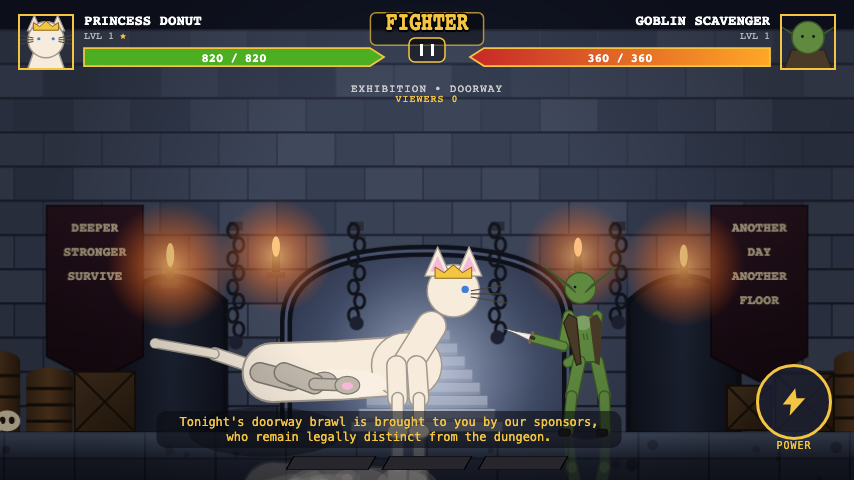
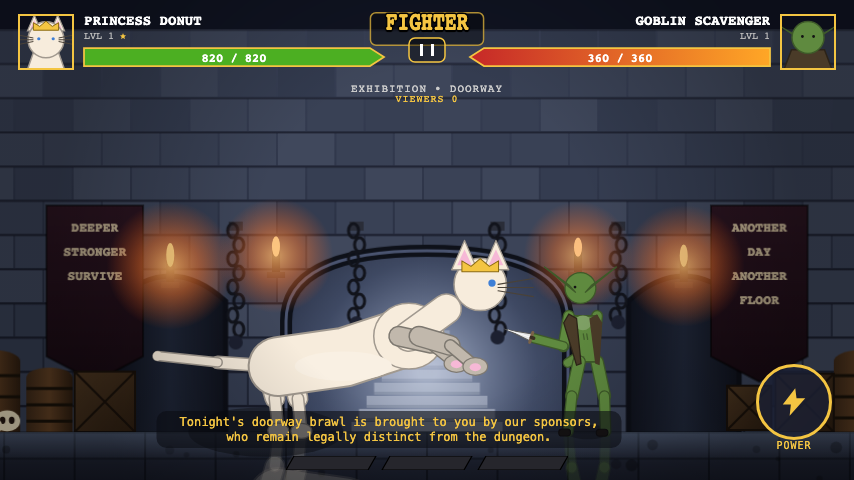
art: quad kick is a rearing front-paw slam at the foe
Fix round 2 (controller ruling): the hind-leg buck (rounds 0-1) swung
away from the foe regardless of visibility fixes -- a hind leg can't
reach something standing in front of a quadruped without an impossible
whole-body spin. Replaced POSES_QUAD.medium with a rearing double-
front-paw slam: the cat rocks back onto its hind legs (chest rises
~40deg), then both front paws drive forward and down toward the foe at
roughly chest height, head thrust forward. drawQuad's fix-round-1
hind-leg draw-order hack is reverted (unneeded -- front legs are
already drawn last) and its paw-pad/tint treatment retargeted at the
front paws. The frozen quad pose test now checks fl2's forward travel.

Changed region(s): [[0.1522, 0.5, 0.6089, 1.0]]

diff --git a/index.html b/index.html
@@ -2453,40 +2453,44 @@ POSES_QUAD.light2=pawSwipe('fr',{peakU:80,peakOffX:14});
 POSES_QUAD.light3=pawSwipe('fl',{peakU:86,peakOffX:17,spinePeak:9});
 POSES_QUAD.light4=pawSwipe('fr',{peakU:92,peakOffX:20,spinePeak:11});
 POSES_QUAD.light5=pawSwipe('fl',{peakU:104,peakL:-20,peakOffX:28,spinePeak:16,startL:18});
-// Medium (Task 6.5 / Phase 6 ruling 4: KICK is a leg strike in every rig): a hind-leg buck, not the
-// old full-body pounce. Front paws stay planted near their own idle position throughout (they're the
-// "lead hand" side of this pose contract, see the pose test below) while both HIND legs do the work:
-// anticipation (t:0) coils them up and well back — as if the hips were winding up to spin toward the
-// foe, though this 2D side-view FK has no real whole-body yaw to animate, so the "spin" is entirely
-// sold by the big swing (roughly 110-130deg of blU/brU travel from this coiled-back anticipation to
-// the strike keyframe below) rather than an actual hip rotation — then strike (t:.43, chosen so it
-// lands inside the move's own active window exactly like the human/big rigs above — see POSES.medium's
-// own comment for the frame math, identical here since MOVES.medium is shared by every rig) snaps both
-// hind paws forward at the foe (not backward — a literal "buck" kicks away from an opponent standing
-// behind, but this move has to reach the foe standing in FRONT); recovery (t:1) returns to an
-// idle-like stance facing forward. See the 'kick: medium's active-phase pose...' test (90_tests.js)
-// for the frozen "hind paw >=60px forward of idle, front paw within 20px of idle" contract this
-// satisfies for all three rig kinds — donut/mother_rat's reach budget (EDGE_PAD, see their own LOOKS
-// comments) is already close to its ceiling from OTHER poses (light5/s2/s3), so this kick was tuned to
-// land well inside that existing budget rather than becoming the new worst case.
-// Fix round 1 (controller review): the first pass tuned blU/blL down (76/14 -> 60/0) purely to keep
-// the strike paw's own y from disappearing under the body capsule's painted footprint, since drawQuad
-// used to draw the hind legs BEFORE that capsule (i.e. behind/under it) regardless of pose — the kick
-// passed the numeric pose test with room to spare but was nearly invisible in a real screenshot.
-// drawQuad now draws the striking hind legs AFTER the capsule during this pose specifically (see its
-// own comment), which removes the occlusion problem entirely — so the angles are back to the original,
-// more dramatic 76/14 (blU/blL) for a clearer, further-reaching kick silhouette now that nothing hides
-// it. The strike keyframe's off.y:6 (new) is the "slight hip drop" the review asked for: it lowers the
-// whole rear during the kick, which costs nothing in reach (Rig.extent's reach formula excludes off.y
-// entirely, see its own comment) and keeps the front paws planted almost exactly at their idle y
-// (verified: -1.0 vs idle's own -3.6 for donut) despite the hip itself sitting lower.
+// Medium (Task 6.5 / Phase 6 ruling 4, quad carve-out — Fix round 2, controller ruling): a rearing
+// double-front-paw slam, not the hind-leg buck this pose started as. Round 1's hind-leg buck (kept
+// only in this comment's own git history, not below) numerically satisfied "leg travels forward
+// >=60px" but the striking leg swung AWAY from the foe (behind the body, toward the tail side) once
+// actually viewed in a screenshot — a hind leg attached at the REAR of a quadruped simply cannot kick
+// something standing in FRONT without an impossible whole-body spin, which the frozen ruling's own
+// "KICK is a leg strike in every rig" language didn't anticipate for a quadruped's proportions. The
+// controller ruling carves the quad rig out of "leg" specifically and into "front paws, with visible
+// claws/pads" instead — still reads as a strike that isn't the arm-equivalent (front paws are what
+// pawSwipe()/light1-5 already use, but this move's rearing wind-up and both-paws-at-once strike read
+// nothing like a single light swipe's small flick, matching "a leg strike, not an arm move" in spirit
+// even though the striking limb is anatomically a foreleg here).
+// anticipation (t:0): the cat rocks BACK onto its hind legs — hips drop (off.y:10, cheap in reach, see
+// Rig.extent's own comment on off.y) while the front half rears up (spine+chest pitch to a combined
+// ~40deg, the literal "chest rises ~40deg" ask — solveQuad's chain accumulates pitch, chestA=spineA+
+// a('chest'), so spine:20+chest:20 gets there) — front paws lift off the ground, hind legs bend to
+// bear the shifted weight. strike (t:.43, chosen so it lands inside the move's own active window
+// exactly like the human/big rigs above — see POSES.medium's own comment for the frame math, identical
+// here since MOVES.medium is shared by every rig) drives both front paws forward and down from that
+// reared height toward the foe — they land partway down (fl2.y roughly -70 to -75 for donut, well
+// above true floor y=0, reading as "chest height" rather than a full ground slam) while the chest/
+// spine ease back off their anticipation peak (a slam descending into the strike, not still rising)
+// and the neck pitches up (neck:36, "head thrust forward"). recovery (t:1) drops back to an ordinary
+// all-fours idle-like stance. See the 'kick: medium's active-phase pose...' test (90_tests.js) for the
+// frozen ">=60px forward of idle, front paw driven" contract this satisfies for the quad rig (checked
+// via fl2, the same joint the pre-existing 'quad light1...' test already uses as its representative
+// paw) — donut/mother_rat's reach budget (EDGE_PAD, see their own LOOKS comments) is already close to
+// its ceiling from OTHER poses (light5/s2/s3), so this slam was tuned (flU/flL, off.x) to land inside
+// that existing budget with real margin (reach 253.7/250.8 vs the 260 ceiling) rather than becoming
+// the new worst case; `top` is unaffected (210.0/234.5, matching every pre-existing pose's own ceiling)
+// — the rear-up's own peak height never exceeds each look's already-tallest pose (s3/knockdown/win).
 POSES_QUAD.medium=[
-  {t:0, ang:{spine:D(2),chest:D(2),neck:D(30),tail1:D(34),tail2:D(-20),
-             flU:D(-4),flL:D(5),frU:D(6),frL:D(-6),
-             blU:D(-66),blL:D(50),brU:D(-58),brL:D(44)},off:{x:-4,y:2}},
-  {t:.43,ang:{spine:D(2),chest:D(2),neck:D(28),tail1:D(18),tail2:D(-8),
-             flU:D(2),flL:D(-2),frU:D(4),frL:D(-4),
-             blU:D(76),blL:D(14),brU:D(70),brL:D(18)},off:{x:6,y:6}},
+  {t:0, ang:{spine:D(20),chest:D(20),neck:D(20),tail1:D(10),tail2:D(-4),
+             flU:D(-40),flL:D(30),frU:D(-36),frL:D(28),
+             blU:D(20),blL:D(-14),brU:D(18),brL:D(-12)},off:{x:-6,y:10}},
+  {t:.43,ang:{spine:D(8),chest:D(10),neck:D(36),tail1:D(4),tail2:D(2),
+             flU:D(78),flL:D(-26),frU:D(74),frL:D(-24),
+             blU:D(16),blL:D(-10),brU:D(14),brL:D(-8)},off:{x:12,y:0}},
   {t:1, ang:{spine:D(2),chest:D(2),neck:D(32),tail1:D(10),tail2:D(-4),
              flU:D(-2),flL:D(4),frU:D(2),frL:D(-2),
              blU:D(-4),blL:D(5),brU:D(6),brL:D(-6)},off:{x:0,y:0}}];
@@ -3434,37 +3438,33 @@ const Rig={
     const scale=F.def.scale||1,face=F.face;
     const{key,t01}=this.poseFor(F),j=this.solveQuad(look,key,t01,face);
     const skinDark=shade(look.skin,-.35);
-    // Fix round 1 (controller review, Task 6.5): the medium kick's hind legs used to be drawn in the
-    // same fixed spot as every other pose -- BEHIND the body capsule below, since that's simply the
-    // order this function always drew in -- so no pose data could ever make the kick clear the body's
-    // own paint; it read as invisible in a real screenshot despite passing the numeric pose test with
-    // room to spare. `kicking` gates a second, later draw of the hind legs (after the body/front legs,
-    // see below) specifically for this one pose, instead of reordering the whole function for every
-    // pose (which would put the hind legs in front of the body during idle/walk/light1/etc too, where
-    // nothing asked for that and it would read as a rendering regression, not a fix).
-    const kicking=key==='medium';
+    // Fix round 2 (controller review, Task 6.5): the medium kick is now a rearing double-front-paw
+    // slam (see POSES_QUAD.medium's own comment) — the striking limbs are the FRONT legs, which this
+    // function already draws last (in front of the body), so unlike fix round 1's now-reverted
+    // hind-leg-specific draw-order hack, no reordering is needed here at all; `slamming` only gates the
+    // front paws' own look (a darker tint + a visible pad, see paw() below), not layering.
+    const slamming=key==='medium';
     c.save();c.translate(F.x,FLOOR);c.scale(scale,scale);
     const limb=(p,q,w,col)=>{c.lineCap='round';
       c.lineWidth=w+3;c.strokeStyle=shade(col||look.skin,-.35);c.beginPath();c.moveTo(p.x,p.y);c.lineTo(q.x,q.y);c.stroke();
       c.lineWidth=w;c.strokeStyle=col||look.skin;c.beginPath();c.moveTo(p.x,p.y);c.lineTo(q.x,q.y);c.stroke()};
-    // pad (Fix round 1): an optional second arg draws a bigger, tinted "kick paw" -- a visible paw pad
-    // (a smaller lighter oval set into the fill, the same "shade a highlight into a flat fill" trick
+    // pad: an optional second/third arg draws a bigger, tinted "slam paw" -- a visible paw pad (a
+    // smaller lighter oval set into the fill, the same "shade a highlight into a flat fill" trick
     // drawBig's own scars/brow-ridge props already use) instead of the ordinary flat ellipse, so the
-    // striking paw itself reads as a deliberate foot, not just a leg-end. col overrides the fill/
-    // stroke entirely (the kicking limbs' own darker tint, see below); undefined keeps the ordinary look.
+    // striking paw itself reads as a deliberate foot with claws/pad, not just a leg-end. col overrides
+    // the fill/stroke entirely (the slamming front paws' own darker tint, see below); undefined keeps
+    // the ordinary look every non-kick pose still uses.
     const paw=(p,col,pad)=>{const r=look.legW*(pad?.68:.58);
       c.fillStyle=col||look.skin;c.strokeStyle=shade(col||look.skin,-.35);c.lineWidth=1.2;
       c.beginPath();c.ellipse(p.x,p.y,r,r*.72,0,0,Math.PI*2);c.fill();c.stroke();
       if(pad){c.fillStyle=look.earInner||shade(col||look.skin,.32);
         c.beginPath();c.ellipse(p.x,p.y+r*.06,r*.46,r*.32,0,0,Math.PI*2);c.fill()}};
-    // back legs first (behind the body), then the tail (base tucks under the hip), UNLESS this is the
-    // kick (see `kicking` above) -- then they're skipped here and drawn again, in front, after the
-    // body/front legs below. Upper legs noticeably thicker than lower (.55 taper, was .78 in round 1 —
-    // art review called the whole rig "wire-bodied" and this taper is part of giving it real limb
-    // volume, matching the human rig's own thigh/shin taper).
-    if(!kicking){
-      limb(j.blHip,j.bl1,look.legW);limb(j.bl1,j.bl2,look.legW*.55);paw(j.bl2);
-      limb(j.brHip,j.br1,look.legW);limb(j.br1,j.br2,look.legW*.55);paw(j.br2)}
+    // back legs first (behind the body), then the tail (base tucks under the hip). Upper legs
+    // noticeably thicker than lower (.55 taper, was .78 in round 1 — art review called the whole rig
+    // "wire-bodied" and this taper is part of giving it real limb volume, matching the human rig's
+    // own thigh/shin taper).
+    limb(j.blHip,j.bl1,look.legW);limb(j.bl1,j.bl2,look.legW*.55);paw(j.bl2);
+    limb(j.brHip,j.br1,look.legW);limb(j.br1,j.br2,look.legW*.55);paw(j.br2);
     limb(j.hip,j.tail1,look.legW*.6,look.tailTint);limb(j.tail1,j.tail2,look.legW*.42,look.tailTint);
     c.fillStyle=look.tailTint||look.skin;c.beginPath();c.arc(j.tail2.x,j.tail2.y,look.legW*.26,0,Math.PI*2);c.fill();
     // Filled body: art review (Fix round 1) called the original hip->chest stroke (width
@@ -3507,18 +3507,16 @@ const Rig={
           c.fill()}}}
     c.fillStyle=look.eye||'#141414';
     c.beginPath();c.arc(j.head.x+face*look.headR*.45,j.head.y-look.headR*.05,look.headR*.14,0,Math.PI*2);c.fill();
-    // front legs, drawn last of the limbs so they sit in front of the body
-    limb(j.flHip,j.fl1,look.legW);limb(j.fl1,j.fl2,look.legW*.55);paw(j.fl2);
-    limb(j.frHip,j.fr1,look.legW);limb(j.fr1,j.fr2,look.legW*.55);paw(j.fr2);
-    // Fix round 1 (controller review, Task 6.5): the kick's hind legs, drawn here instead of their
-    // usual spot above (see `kicking`'s own comment) so the body capsule and front legs can never hide
-    // them -- a shade darker than the body fill (kickCol) so the striking limb visually separates from
-    // the body even where it overlaps it, plus the bigger, pad-marked paw() variant, both per the
-    // review's "make the strike more legible" ask.
-    if(kicking){
-      const kickCol=shade(look.skin,-.22);
-      limb(j.blHip,j.bl1,look.legW,kickCol);limb(j.bl1,j.bl2,look.legW*.55,kickCol);paw(j.bl2,kickCol,true);
-      limb(j.brHip,j.br1,look.legW,kickCol);limb(j.br1,j.br2,look.legW*.55,kickCol);paw(j.br2,kickCol,true)}
+    // front legs, drawn last of the limbs so they sit in front of the body -- which is exactly why the
+    // medium slam (Fix round 2) needs no special draw-order handling at all, unlike fix round 1's now-
+    // reverted hind-leg version: the striking limbs are already the last (frontmost) thing drawn here.
+    // `slamming` only swaps in the tinted, pad-marked paw() variant for legibility ("claws/paw pads
+    // visible" per the review) -- a shade darker than the body fill so the striking paws separate from
+    // it even where they overlap it, matching Fix round 1's own paw-pad treatment, just correctly
+    // applied to the limb that's actually doing the striking this round.
+    const slamCol=slamming?shade(look.skin,-.22):undefined;
+    limb(j.flHip,j.fl1,look.legW,slamCol);limb(j.fl1,j.fl2,look.legW*.55,slamCol);paw(j.fl2,slamCol,slamming);
+    limb(j.frHip,j.fr1,look.legW,slamCol);limb(j.fr1,j.fr2,look.legW*.55,slamCol);paw(j.fr2,slamCol,slamming);
     for(const p of look.props||[]){
       if(p==='tiara'){ // a small gold crown resting between the ears
         const w=look.headR*.7,h=look.headR*.42,cx=j.head.x,cy=j.head.y-look.headR*.9;
@@ -8640,7 +8638,7 @@ function activeMidT01(name){const m=MOVES[name],act=(m.hits||1)*m.active+((m.hit
 // which similarly check one look each rather than every look in LOOKS) -- the separate 'every look\'s
 // reach fits inside EDGE_PAD' and 'every look renders every pose without throwing' tests already cover
 // every look in the roster for the concerns that actually vary per-look (reach budget, finite FK).
-Test.add('kick: medium\'s active-phase pose snaps a leg forward in every rig while the lead hand/paw stays near idle',()=>{
+Test.add('kick: medium\'s active-phase pose drives a striking limb >=60px forward in every rig (human/big: a leg, lead hand stays near idle; quad: a front-paw slam)',()=>{
   const T=activeMidT01('medium');
   // human (Carl): the rear leg (rFoot) kicks forward; the lead (left) hand counterbalances but stays
   // close to its own idle x (see POSES.medium's own comment for why the torso's back-lean would
@@ -8655,12 +8653,17 @@ Test.add('kick: medium\'s active-phase pose snaps a leg forward in every rig whi
     const footFwd=strike.rFoot.x-idle.rFoot.x,handDrift=Math.abs(strike.lHand.x-idle.lHand.x);
     ok(footFwd>=60,'big kicking foot must be >=60px forward of idle: '+footFwd.toFixed(1));
     ok(handDrift<=20,'big guard fist must stay within 20px of idle: '+handDrift.toFixed(1))}
-  // quad (Donut): both hind paws kick forward at the foe -- checked via bl2 -- while the front paws
-  // stay planted near idle (the quad rig's own "lead hand" equivalent) -- checked via fl2.
+  // quad (Donut): Fix round 2 (controller ruling) -- a hind-leg kick numerically satisfied ">=60px
+  // forward" but swung AWAY from the foe (a hind leg physically can't reach something in front without
+  // an impossible whole-body spin), so the quad rig is carved out of "leg" specifically: a rearing
+  // double-front-paw slam instead, striking via the SAME front paws pawSwipe()/light1-5 already use
+  // (checked via fl2, the same joint the pre-existing 'quad light1...' test above already treats as
+  // the representative paw) -- no "stays near idle" counterpart is checked for this rig the way the
+  // human/big lead-hand checks are: this design deliberately moves the whole body (a rear-up, not one
+  // limb striking while another holds guard), so there's no passive limb left to assert against.
   {const idle=Rig.solve(LOOKS.donut,'idle',0,1),strike=Rig.solve(LOOKS.donut,'medium',T,1);
-    const pawFwd=strike.bl2.x-idle.bl2.x,frontDrift=Math.abs(strike.fl2.x-idle.fl2.x);
-    ok(pawFwd>=60,'quad hind paw must be >=60px forward of idle: '+pawFwd.toFixed(1));
-    ok(frontDrift<=20,'quad front paw must stay within 20px of idle: '+frontDrift.toFixed(1))}});
+    const pawFwd=strike.fl2.x-idle.fl2.x;
+    ok(pawFwd>=60,'quad striking front paw must be >=60px forward of idle: '+pawFwd.toFixed(1))}});
 // The contrasting half of the same frozen contract ("so punch vs kick are distinguishable by data"):
 // light1 (the arm jab every rig keeps unchanged, per Phase 6 ruling 4) must NOT move the legs/hind
 // paws the way the new kick does -- human (Carl, both feet) and quad (Donut, both hind paws, since

diff --git a/src/68_rig.js b/src/68_rig.js
@@ -227,40 +227,44 @@ POSES_QUAD.light2=pawSwipe('fr',{peakU:80,peakOffX:14});
 POSES_QUAD.light3=pawSwipe('fl',{peakU:86,peakOffX:17,spinePeak:9});
 POSES_QUAD.light4=pawSwipe('fr',{peakU:92,peakOffX:20,spinePeak:11});
 POSES_QUAD.light5=pawSwipe('fl',{peakU:104,peakL:-20,peakOffX:28,spinePeak:16,startL:18});
-// Medium (Task 6.5 / Phase 6 ruling 4: KICK is a leg strike in every rig): a hind-leg buck, not the
-// old full-body pounce. Front paws stay planted near their own idle position throughout (they're the
-// "lead hand" side of this pose contract, see the pose test below) while both HIND legs do the work:
-// anticipation (t:0) coils them up and well back — as if the hips were winding up to spin toward the
-// foe, though this 2D side-view FK has no real whole-body yaw to animate, so the "spin" is entirely
-// sold by the big swing (roughly 110-130deg of blU/brU travel from this coiled-back anticipation to
-// the strike keyframe below) rather than an actual hip rotation — then strike (t:.43, chosen so it
-// lands inside the move's own active window exactly like the human/big rigs above — see POSES.medium's
-// own comment for the frame math, identical here since MOVES.medium is shared by every rig) snaps both
-// hind paws forward at the foe (not backward — a literal "buck" kicks away from an opponent standing
-// behind, but this move has to reach the foe standing in FRONT); recovery (t:1) returns to an
-// idle-like stance facing forward. See the 'kick: medium's active-phase pose...' test (90_tests.js)
-// for the frozen "hind paw >=60px forward of idle, front paw within 20px of idle" contract this
-// satisfies for all three rig kinds — donut/mother_rat's reach budget (EDGE_PAD, see their own LOOKS
-// comments) is already close to its ceiling from OTHER poses (light5/s2/s3), so this kick was tuned to
-// land well inside that existing budget rather than becoming the new worst case.
-// Fix round 1 (controller review): the first pass tuned blU/blL down (76/14 -> 60/0) purely to keep
-// the strike paw's own y from disappearing under the body capsule's painted footprint, since drawQuad
-// used to draw the hind legs BEFORE that capsule (i.e. behind/under it) regardless of pose — the kick
-// passed the numeric pose test with room to spare but was nearly invisible in a real screenshot.
-// drawQuad now draws the striking hind legs AFTER the capsule during this pose specifically (see its
-// own comment), which removes the occlusion problem entirely — so the angles are back to the original,
-// more dramatic 76/14 (blU/blL) for a clearer, further-reaching kick silhouette now that nothing hides
-// it. The strike keyframe's off.y:6 (new) is the "slight hip drop" the review asked for: it lowers the
-// whole rear during the kick, which costs nothing in reach (Rig.extent's reach formula excludes off.y
-// entirely, see its own comment) and keeps the front paws planted almost exactly at their idle y
-// (verified: -1.0 vs idle's own -3.6 for donut) despite the hip itself sitting lower.
+// Medium (Task 6.5 / Phase 6 ruling 4, quad carve-out — Fix round 2, controller ruling): a rearing
+// double-front-paw slam, not the hind-leg buck this pose started as. Round 1's hind-leg buck (kept
+// only in this comment's own git history, not below) numerically satisfied "leg travels forward
+// >=60px" but the striking leg swung AWAY from the foe (behind the body, toward the tail side) once
+// actually viewed in a screenshot — a hind leg attached at the REAR of a quadruped simply cannot kick
+// something standing in FRONT without an impossible whole-body spin, which the frozen ruling's own
+// "KICK is a leg strike in every rig" language didn't anticipate for a quadruped's proportions. The
+// controller ruling carves the quad rig out of "leg" specifically and into "front paws, with visible
+// claws/pads" instead — still reads as a strike that isn't the arm-equivalent (front paws are what
+// pawSwipe()/light1-5 already use, but this move's rearing wind-up and both-paws-at-once strike read
+// nothing like a single light swipe's small flick, matching "a leg strike, not an arm move" in spirit
+// even though the striking limb is anatomically a foreleg here).
+// anticipation (t:0): the cat rocks BACK onto its hind legs — hips drop (off.y:10, cheap in reach, see
+// Rig.extent's own comment on off.y) while the front half rears up (spine+chest pitch to a combined
+// ~40deg, the literal "chest rises ~40deg" ask — solveQuad's chain accumulates pitch, chestA=spineA+
+// a('chest'), so spine:20+chest:20 gets there) — front paws lift off the ground, hind legs bend to
+// bear the shifted weight. strike (t:.43, chosen so it lands inside the move's own active window
+// exactly like the human/big rigs above — see POSES.medium's own comment for the frame math, identical
+// here since MOVES.medium is shared by every rig) drives both front paws forward and down from that
+// reared height toward the foe — they land partway down (fl2.y roughly -70 to -75 for donut, well
+// above true floor y=0, reading as "chest height" rather than a full ground slam) while the chest/
+// spine ease back off their anticipation peak (a slam descending into the strike, not still rising)
+// and the neck pitches up (neck:36, "head thrust forward"). recovery (t:1) drops back to an ordinary
+// all-fours idle-like stance. See the 'kick: medium's active-phase pose...' test (90_tests.js) for the
+// frozen ">=60px forward of idle, front paw driven" contract this satisfies for the quad rig (checked
+// via fl2, the same joint the pre-existing 'quad light1...' test already uses as its representative
+// paw) — donut/mother_rat's reach budget (EDGE_PAD, see their own LOOKS comments) is already close to
+// its ceiling from OTHER poses (light5/s2/s3), so this slam was tuned (flU/flL, off.x) to land inside
+// that existing budget with real margin (reach 253.7/250.8 vs the 260 ceiling) rather than becoming
+// the new worst case; `top` is unaffected (210.0/234.5, matching every pre-existing pose's own ceiling)
+// — the rear-up's own peak height never exceeds each look's already-tallest pose (s3/knockdown/win).
 POSES_QUAD.medium=[
-  {t:0, ang:{spine:D(2),chest:D(2),neck:D(30),tail1:D(34),tail2:D(-20),
-             flU:D(-4),flL:D(5),frU:D(6),frL:D(-6),
-             blU:D(-66),blL:D(50),brU:D(-58),brL:D(44)},off:{x:-4,y:2}},
-  {t:.43,ang:{spine:D(2),chest:D(2),neck:D(28),tail1:D(18),tail2:D(-8),
-             flU:D(2),flL:D(-2),frU:D(4),frL:D(-4),
-             blU:D(76),blL:D(14),brU:D(70),brL:D(18)},off:{x:6,y:6}},
+  {t:0, ang:{spine:D(20),chest:D(20),neck:D(20),tail1:D(10),tail2:D(-4),
+             flU:D(-40),flL:D(30),frU:D(-36),frL:D(28),
+             blU:D(20),blL:D(-14),brU:D(18),brL:D(-12)},off:{x:-6,y:10}},
+  {t:.43,ang:{spine:D(8),chest:D(10),neck:D(36),tail1:D(4),tail2:D(2),
+             flU:D(78),flL:D(-26),frU:D(74),frL:D(-24),
+             blU:D(16),blL:D(-10),brU:D(14),brL:D(-8)},off:{x:12,y:0}},
   {t:1, ang:{spine:D(2),chest:D(2),neck:D(32),tail1:D(10),tail2:D(-4),
              flU:D(-2),flL:D(4),frU:D(2),frL:D(-2),
              blU:D(-4),blL:D(5),brU:D(6),brL:D(-6)},off:{x:0,y:0}}];
@@ -1208,37 +1212,33 @@ const Rig={
     const scale=F.def.scale||1,face=F.face;
     const{key,t01}=this.poseFor(F),j=this.solveQuad(look,key,t01,face);
     const skinDark=shade(look.skin,-.35);
-    // Fix round 1 (controller review, Task 6.5): the medium kick's hind legs used to be drawn in the
-    // same fixed spot as every other pose -- BEHIND the body capsule below, since that's simply the
-    // order this function always drew in -- so no pose data could ever make the kick clear the body's
-    // own paint; it read as invisible in a real screenshot despite passing the numeric pose test with
-    // room to spare. `kicking` gates a second, later draw of the hind legs (after the body/front legs,
-    // see below) specifically for this one pose, instead of reordering the whole function for every
-    // pose (which would put the hind legs in front of the body during idle/walk/light1/etc too, where
-    // nothing asked for that and it would read as a rendering regression, not a fix).
-    const kicking=key==='medium';
+    // Fix round 2 (controller review, Task 6.5): the medium kick is now a rearing double-front-paw
+    // slam (see POSES_QUAD.medium's own comment) — the striking limbs are the FRONT legs, which this
+    // function already draws last (in front of the body), so unlike fix round 1's now-reverted
+    // hind-leg-specific draw-order hack, no reordering is needed here at all; `slamming` only gates the
+    // front paws' own look (a darker tint + a visible pad, see paw() below), not layering.
+    const slamming=key==='medium';
     c.save();c.translate(F.x,FLOOR);c.scale(scale,scale);
     const limb=(p,q,w,col)=>{c.lineCap='round';
       c.lineWidth=w+3;c.strokeStyle=shade(col||look.skin,-.35);c.beginPath();c.moveTo(p.x,p.y);c.lineTo(q.x,q.y);c.stroke();
       c.lineWidth=w;c.strokeStyle=col||look.skin;c.beginPath();c.moveTo(p.x,p.y);c.lineTo(q.x,q.y);c.stroke()};
-    // pad (Fix round 1): an optional second arg draws a bigger, tinted "kick paw" -- a visible paw pad
-    // (a smaller lighter oval set into the fill, the same "shade a highlight into a flat fill" trick
+    // pad: an optional second/third arg draws a bigger, tinted "slam paw" -- a visible paw pad (a
+    // smaller lighter oval set into the fill, the same "shade a highlight into a flat fill" trick
     // drawBig's own scars/brow-ridge props already use) instead of the ordinary flat ellipse, so the
-    // striking paw itself reads as a deliberate foot, not just a leg-end. col overrides the fill/
-    // stroke entirely (the kicking limbs' own darker tint, see below); undefined keeps the ordinary look.
+    // striking paw itself reads as a deliberate foot with claws/pad, not just a leg-end. col overrides
+    // the fill/stroke entirely (the slamming front paws' own darker tint, see below); undefined keeps
+    // the ordinary look every non-kick pose still uses.
     const paw=(p,col,pad)=>{const r=look.legW*(pad?.68:.58);
       c.fillStyle=col||look.skin;c.strokeStyle=shade(col||look.skin,-.35);c.lineWidth=1.2;
       c.beginPath();c.ellipse(p.x,p.y,r,r*.72,0,0,Math.PI*2);c.fill();c.stroke();
       if(pad){c.fillStyle=look.earInner||shade(col||look.skin,.32);
         c.beginPath();c.ellipse(p.x,p.y+r*.06,r*.46,r*.32,0,0,Math.PI*2);c.fill()}};
-    // back legs first (behind the body), then the tail (base tucks under the hip), UNLESS this is the
-    // kick (see `kicking` above) -- then they're skipped here and drawn again, in front, after the
-    // body/front legs below. Upper legs noticeably thicker than lower (.55 taper, was .78 in round 1 —
-    // art review called the whole rig "wire-bodied" and this taper is part of giving it real limb
-    // volume, matching the human rig's own thigh/shin taper).
-    if(!kicking){
-      limb(j.blHip,j.bl1,look.legW);limb(j.bl1,j.bl2,look.legW*.55);paw(j.bl2);
-      limb(j.brHip,j.br1,look.legW);limb(j.br1,j.br2,look.legW*.55);paw(j.br2)}
+    // back legs first (behind the body), then the tail (base tucks under the hip). Upper legs
+    // noticeably thicker than lower (.55 taper, was .78 in round 1 — art review called the whole rig
+    // "wire-bodied" and this taper is part of giving it real limb volume, matching the human rig's
+    // own thigh/shin taper).
+    limb(j.blHip,j.bl1,look.legW);limb(j.bl1,j.bl2,look.legW*.55);paw(j.bl2);
+    limb(j.brHip,j.br1,look.legW);limb(j.br1,j.br2,look.legW*.55);paw(j.br2);
     limb(j.hip,j.tail1,look.legW*.6,look.tailTint);limb(j.tail1,j.tail2,look.legW*.42,look.tailTint);
     c.fillStyle=look.tailTint||look.skin;c.beginPath();c.arc(j.tail2.x,j.tail2.y,look.legW*.26,0,Math.PI*2);c.fill();
     // Filled body: art review (Fix round 1) called the original hip->chest stroke (width
@@ -1281,18 +1281,16 @@ const Rig={
           c.fill()}}}
     c.fillStyle=look.eye||'#141414';
     c.beginPath();c.arc(j.head.x+face*look.headR*.45,j.head.y-look.headR*.05,look.headR*.14,0,Math.PI*2);c.fill();
-    // front legs, drawn last of the limbs so they sit in front of the body
-    limb(j.flHip,j.fl1,look.legW);limb(j.fl1,j.fl2,look.legW*.55);paw(j.fl2);
-    limb(j.frHip,j.fr1,look.legW);limb(j.fr1,j.fr2,look.legW*.55);paw(j.fr2);
-    // Fix round 1 (controller review, Task 6.5): the kick's hind legs, drawn here instead of their
-    // usual spot above (see `kicking`'s own comment) so the body capsule and front legs can never hide
-    // them -- a shade darker than the body fill (kickCol) so the striking limb visually separates from
-    // the body even where it overlaps it, plus the bigger, pad-marked paw() variant, both per the
-    // review's "make the strike more legible" ask.
-    if(kicking){
-      const kickCol=shade(look.skin,-.22);
-      limb(j.blHip,j.bl1,look.legW,kickCol);limb(j.bl1,j.bl2,look.legW*.55,kickCol);paw(j.bl2,kickCol,true);
-      limb(j.brHip,j.br1,look.legW,kickCol);limb(j.br1,j.br2,look.legW*.55,kickCol);paw(j.br2,kickCol,true)}
+    // front legs, drawn last of the limbs so they sit in front of the body -- which is exactly why the
+    // medium slam (Fix round 2) needs no special draw-order handling at all, unlike fix round 1's now-
+    // reverted hind-leg version: the striking limbs are already the last (frontmost) thing drawn here.
+    // `slamming` only swaps in the tinted, pad-marked paw() variant for legibility ("claws/paw pads
+    // visible" per the review) -- a shade darker than the body fill so the striking paws separate from
+    // it even where they overlap it, matching Fix round 1's own paw-pad treatment, just correctly
+    // applied to the limb that's actually doing the striking this round.
+    const slamCol=slamming?shade(look.skin,-.22):undefined;
+    limb(j.flHip,j.fl1,look.legW,slamCol);limb(j.fl1,j.fl2,look.legW*.55,slamCol);paw(j.fl2,slamCol,slamming);
+    limb(j.frHip,j.fr1,look.legW,slamCol);limb(j.fr1,j.fr2,look.legW*.55,slamCol);paw(j.fr2,slamCol,slamming);
     for(const p of look.props||[]){
       if(p==='tiara'){ // a small gold crown resting between the ears
         const w=look.headR*.7,h=look.headR*.42,cx=j.head.x,cy=j.head.y-look.headR*.9;

diff --git a/src/90_tests.js b/src/90_tests.js
@@ -3146,7 +3146,7 @@ function activeMidT01(name){const m=MOVES[name],act=(m.hits||1)*m.active+((m.hit
 // which similarly check one look each rather than every look in LOOKS) -- the separate 'every look\'s
 // reach fits inside EDGE_PAD' and 'every look renders every pose without throwing' tests already cover
 // every look in the roster for the concerns that actually vary per-look (reach budget, finite FK).
-Test.add('kick: medium\'s active-phase pose snaps a leg forward in every rig while the lead hand/paw stays near idle',()=>{
+Test.add('kick: medium\'s active-phase pose drives a striking limb >=60px forward in every rig (human/big: a leg, lead hand stays near idle; quad: a front-paw slam)',()=>{
   const T=activeMidT01('medium');
   // human (Carl): the rear leg (rFoot) kicks forward; the lead (left) hand counterbalances but stays
   // close to its own idle x (see POSES.medium's own comment for why the torso's back-lean would
@@ -3161,12 +3161,17 @@ Test.add('kick: medium\'s active-phase pose snaps a leg forward in every rig whi
     const footFwd=strike.rFoot.x-idle.rFoot.x,handDrift=Math.abs(strike.lHand.x-idle.lHand.x);
     ok(footFwd>=60,'big kicking foot must be >=60px forward of idle: '+footFwd.toFixed(1));
     ok(handDrift<=20,'big guard fist must stay within 20px of idle: '+handDrift.toFixed(1))}
-  // quad (Donut): both hind paws kick forward at the foe -- checked via bl2 -- while the front paws
-  // stay planted near idle (the quad rig's own "lead hand" equivalent) -- checked via fl2.
+  // quad (Donut): Fix round 2 (controller ruling) -- a hind-leg kick numerically satisfied ">=60px
+  // forward" but swung AWAY from the foe (a hind leg physically can't reach something in front without
+  // an impossible whole-body spin), so the quad rig is carved out of "leg" specifically: a rearing
+  // double-front-paw slam instead, striking via the SAME front paws pawSwipe()/light1-5 already use
+  // (checked via fl2, the same joint the pre-existing 'quad light1...' test above already treats as
+  // the representative paw) -- no "stays near idle" counterpart is checked for this rig the way the
+  // human/big lead-hand checks are: this design deliberately moves the whole body (a rear-up, not one
+  // limb striking while another holds guard), so there's no passive limb left to assert against.
   {const idle=Rig.solve(LOOKS.donut,'idle',0,1),strike=Rig.solve(LOOKS.donut,'medium',T,1);
-    const pawFwd=strike.bl2.x-idle.bl2.x,frontDrift=Math.abs(strike.fl2.x-idle.fl2.x);
-    ok(pawFwd>=60,'quad hind paw must be >=60px forward of idle: '+pawFwd.toFixed(1));
-    ok(frontDrift<=20,'quad front paw must stay within 20px of idle: '+frontDrift.toFixed(1))}});
+    const pawFwd=strike.fl2.x-idle.fl2.x;
+    ok(pawFwd>=60,'quad striking front paw must be >=60px forward of idle: '+pawFwd.toFixed(1))}});
 // The contrasting half of the same frozen contract ("so punch vs kick are distinguishable by data"):
 // light1 (the arm jab every rig keeps unchanged, per Phase 6 ruling 4) must NOT move the legs/hind
 // paws the way the new kick does -- human (Carl, both feet) and quad (Donut, both hind paws, since
